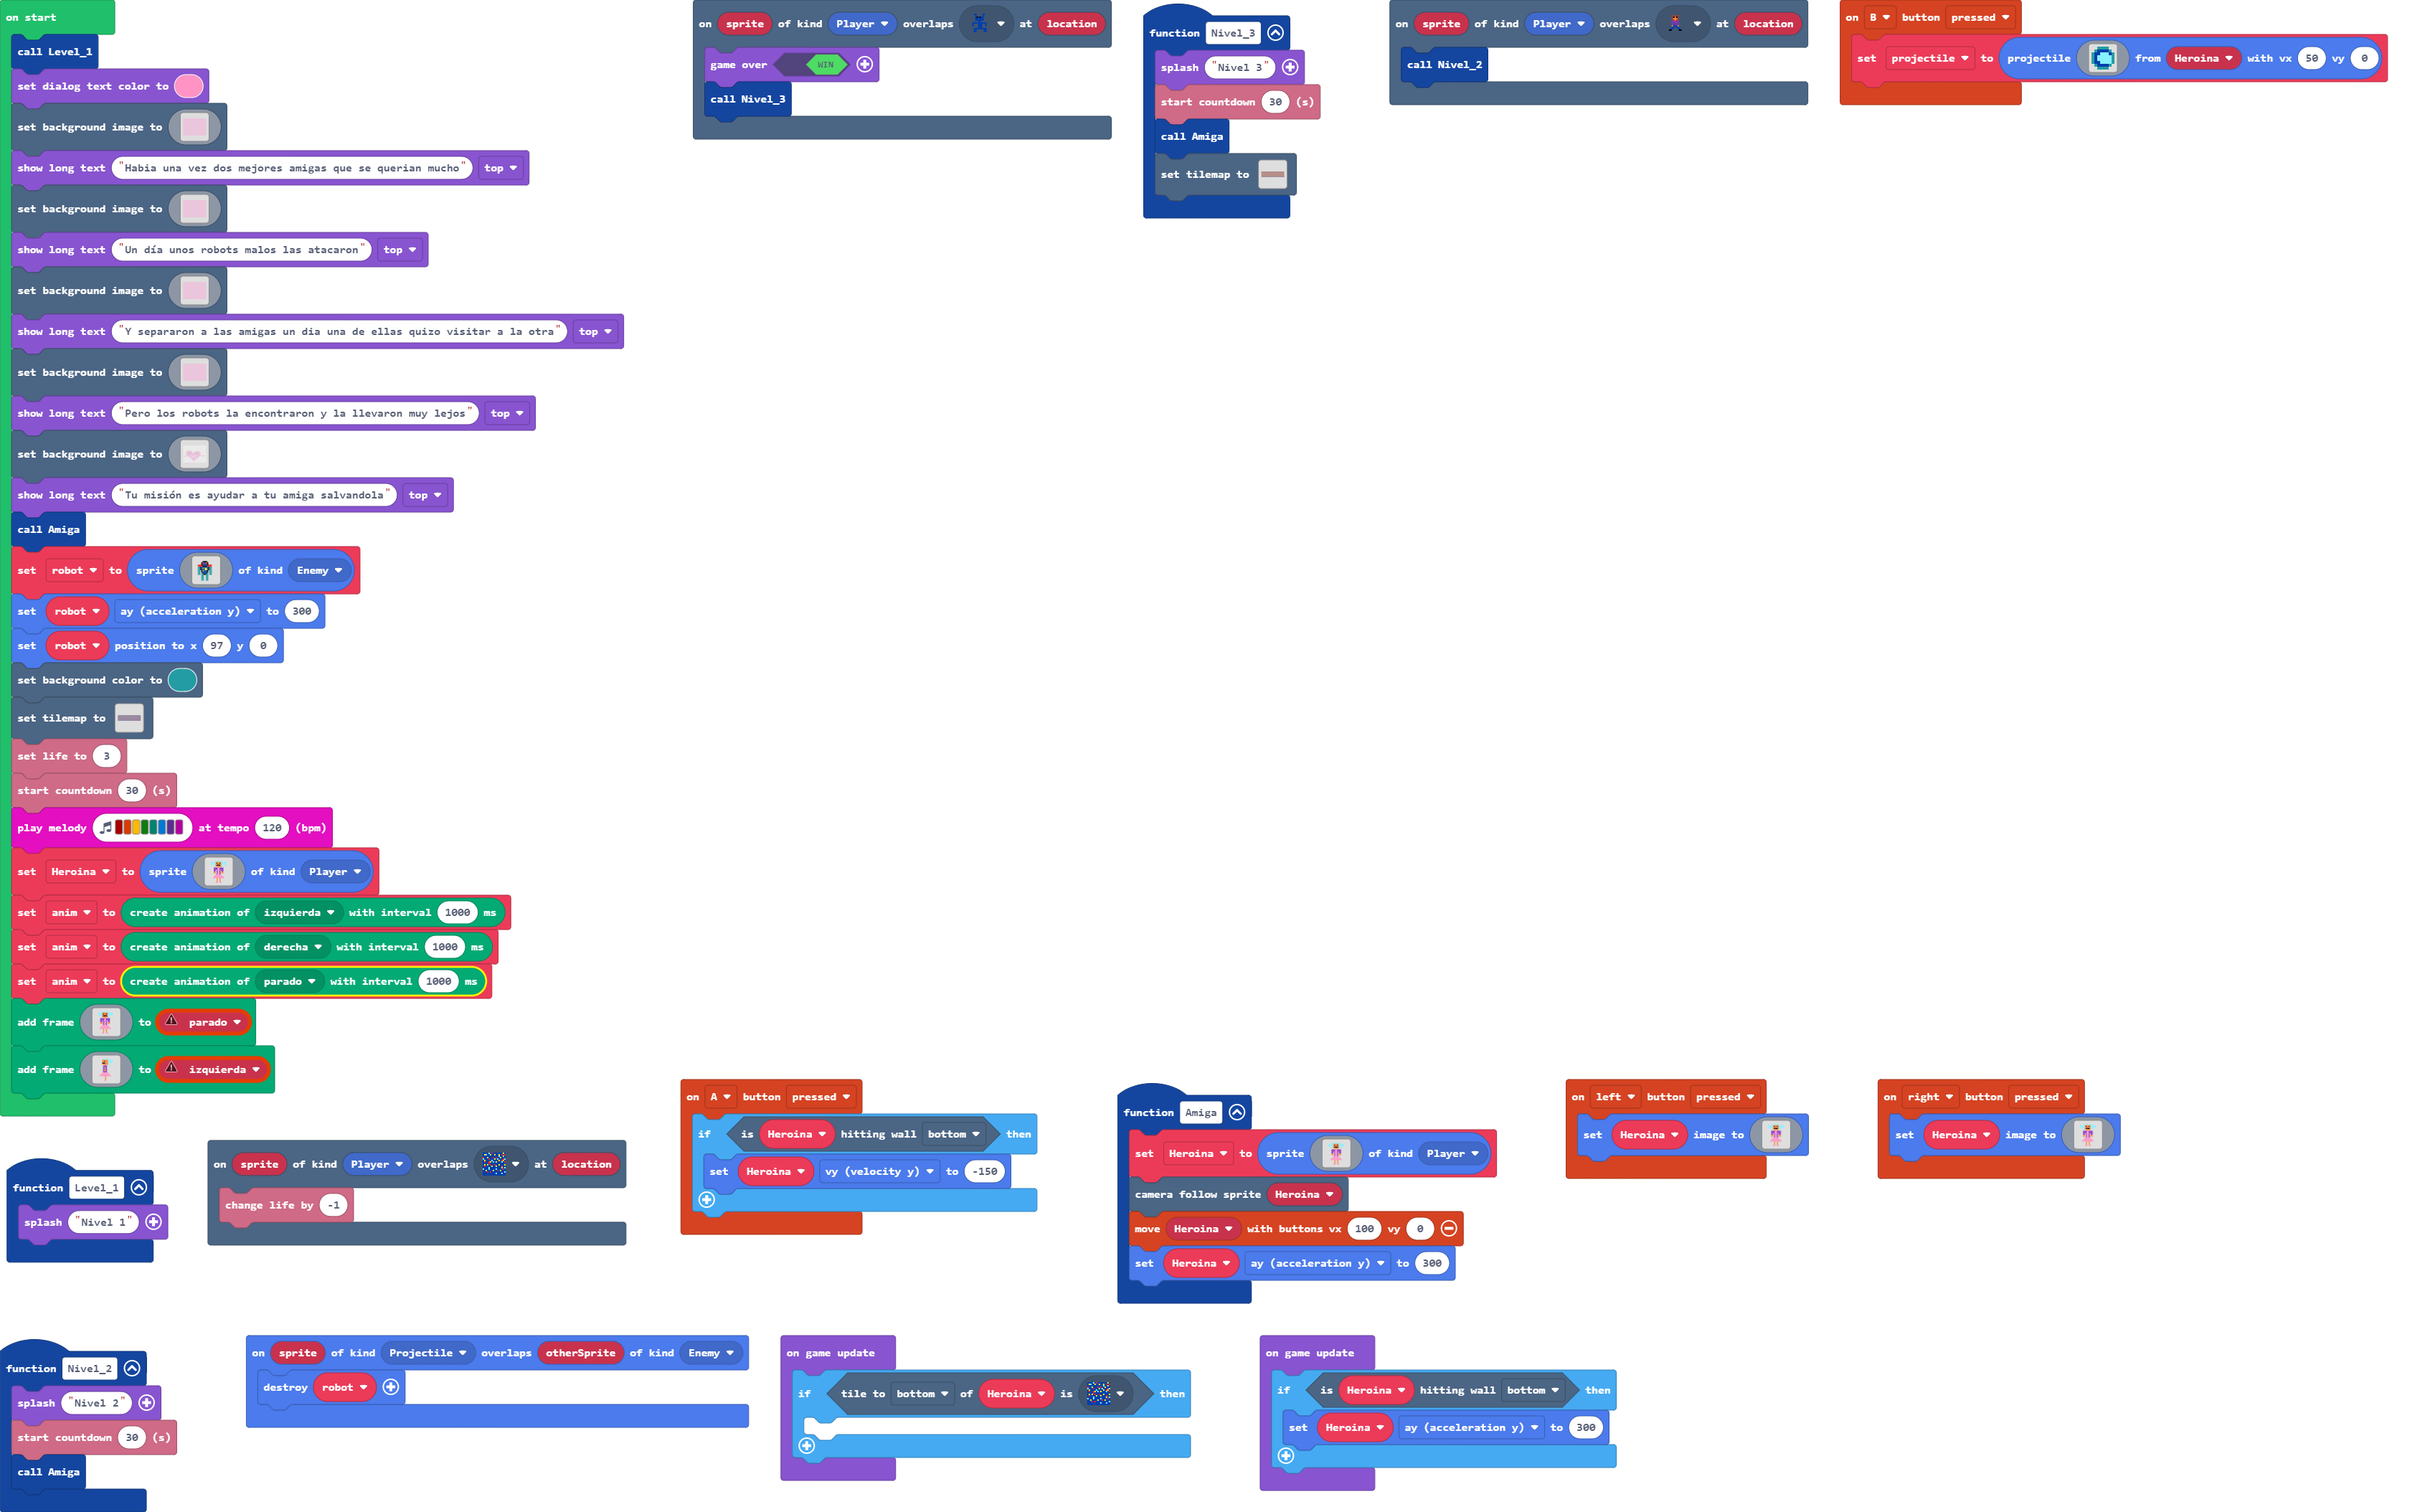
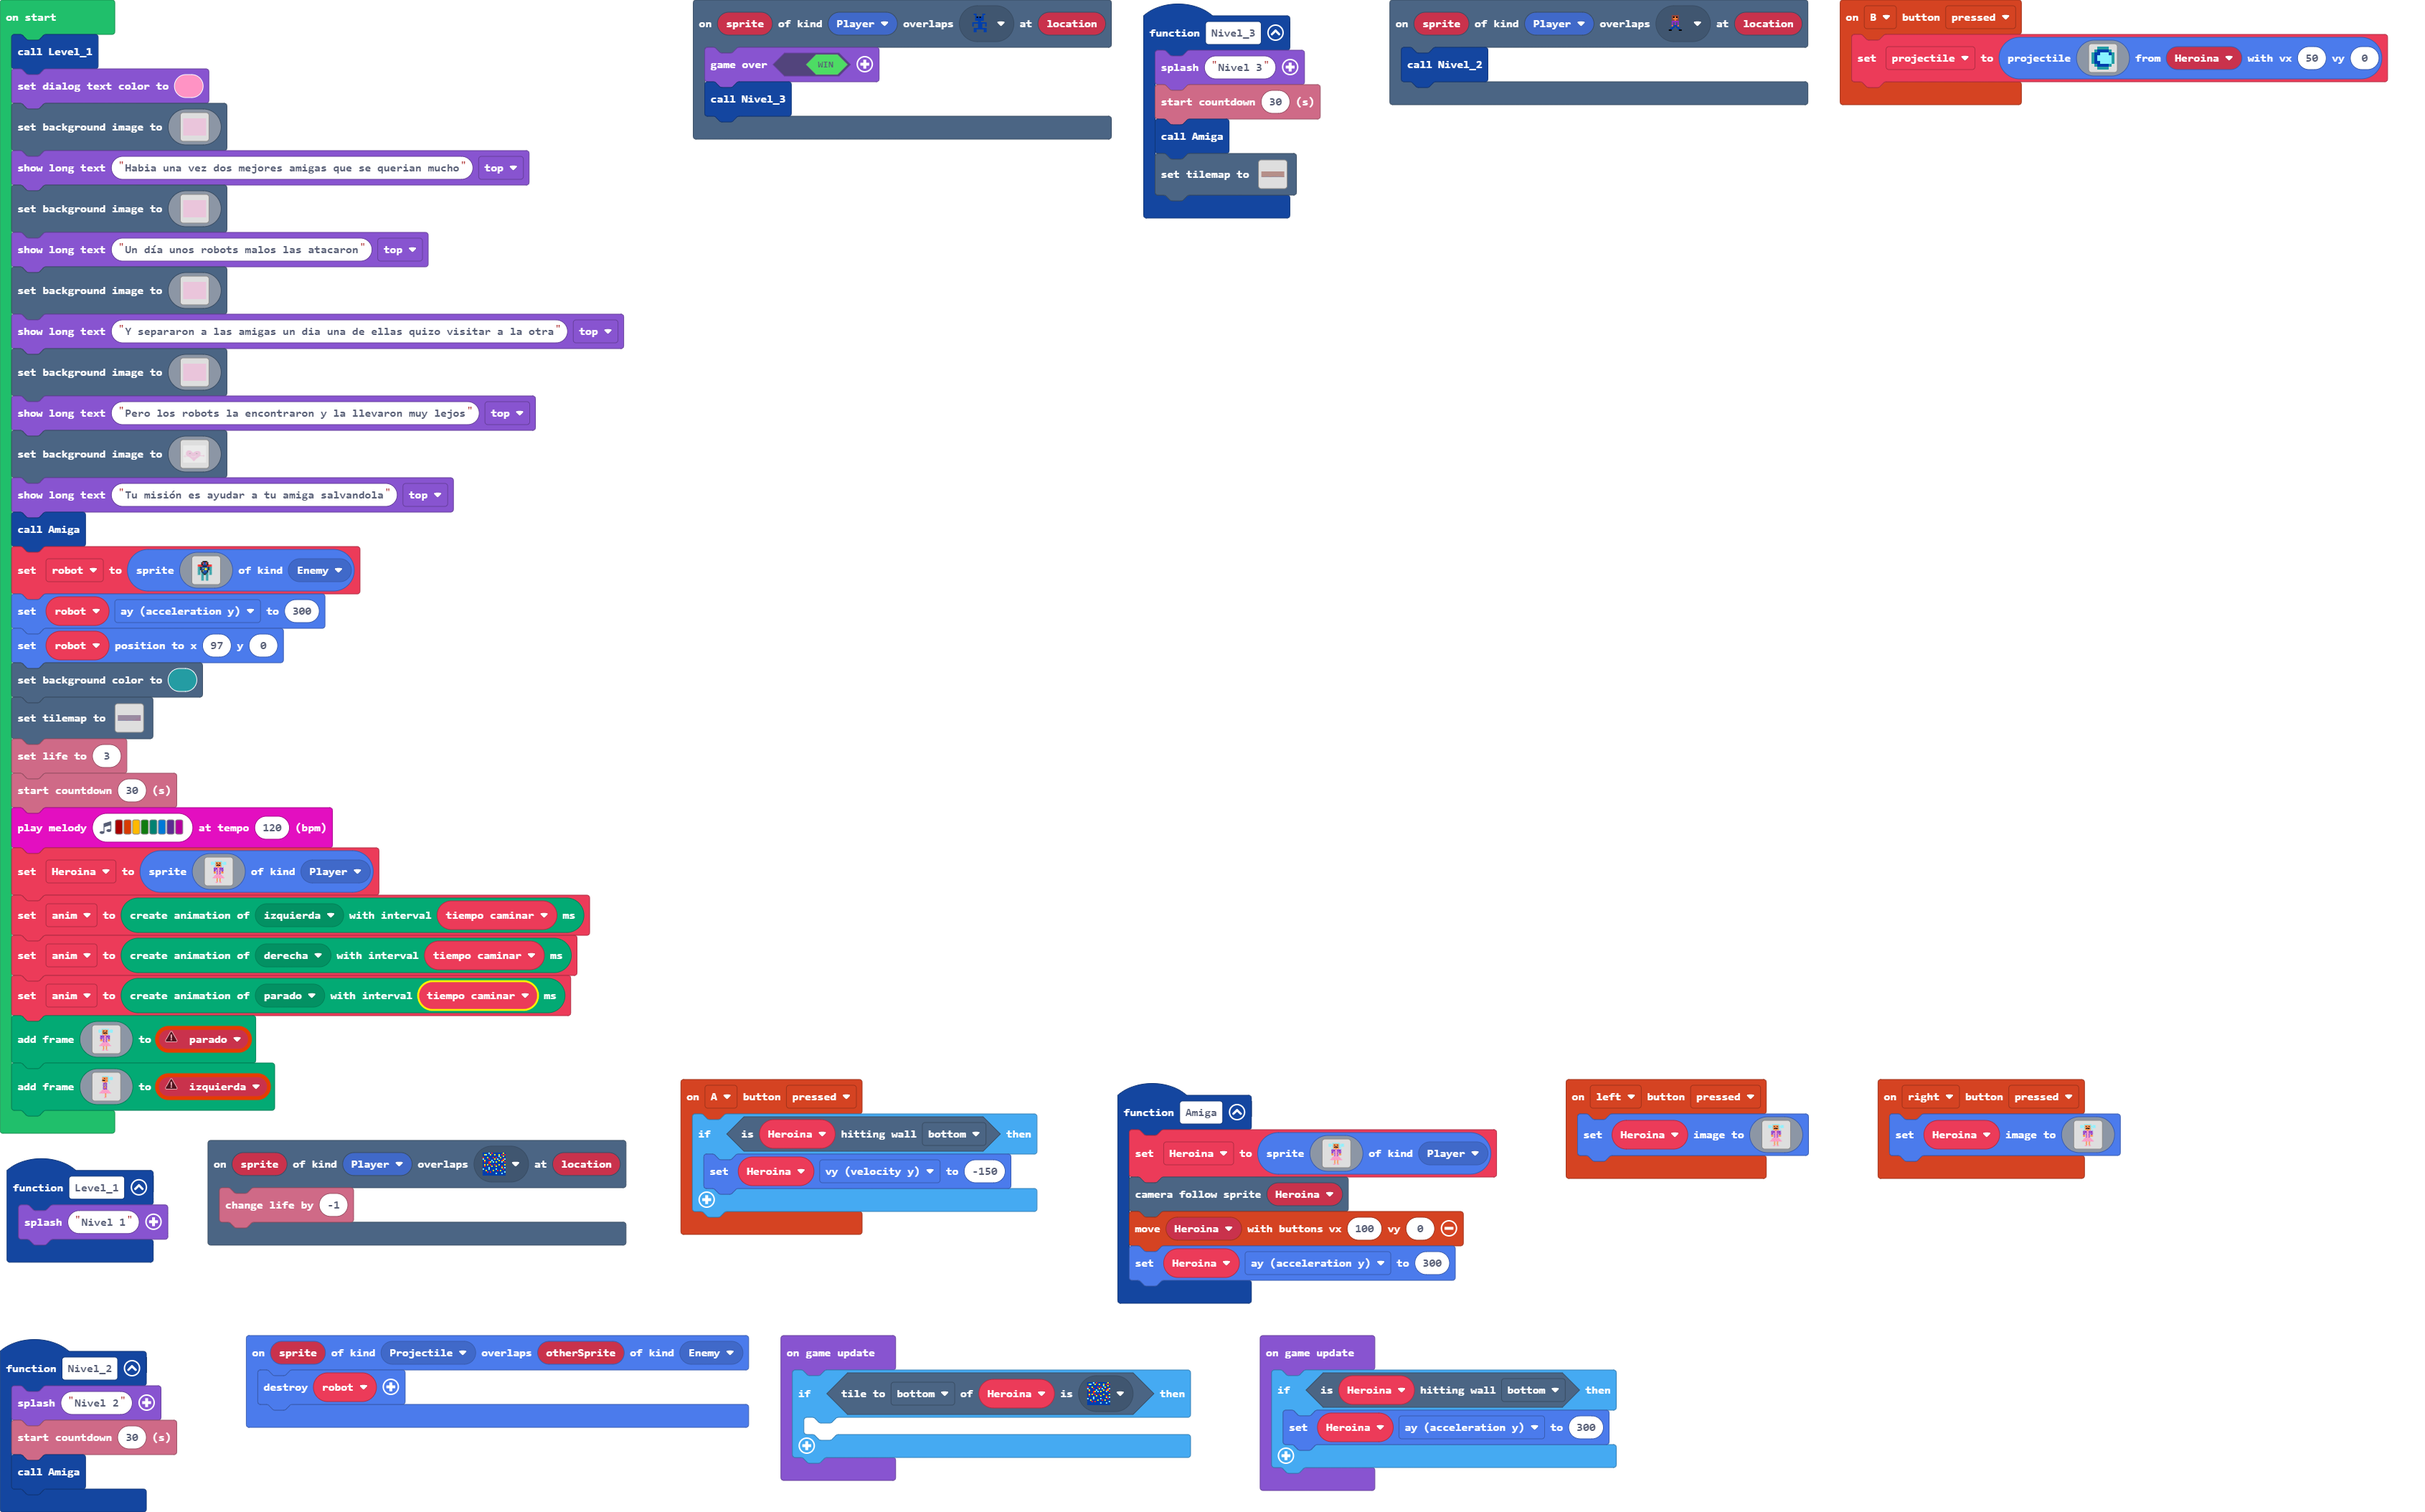
puse mas animacion

Changed region(s): [[0.0, 0.5859, 0.2484, 0.7709]]

diff --git a/main.ts b/main.ts
@@ -161,6 +161,7 @@ sprites.onOverlap(SpriteKind.Projectile, SpriteKind.Enemy, function (sprite, oth
 let projectile: Sprite = null
 let izquierda: animation.Animation = null
 let parado: animation.Animation = null
+let tiempo_caminar = 0
 let Heroina: Sprite = null
 let robot: Sprite = null
 Level_1()
@@ -853,9 +854,9 @@ Heroina = sprites.create(img`
     . . . . . . 4 . . 4 . . . . . . 
     . . . . . 3 3 . . 3 3 . . . . . 
     `, SpriteKind.Player)
-let anim = animation.createAnimation(ActionKind.izquierda, 1000)
-anim = animation.createAnimation(ActionKind.derecha, 1000)
-anim = animation.createAnimation(ActionKind.parado, 1000)
+let anim = animation.createAnimation(ActionKind.izquierda, tiempo_caminar)
+anim = animation.createAnimation(ActionKind.derecha, tiempo_caminar)
+anim = animation.createAnimation(ActionKind.parado, tiempo_caminar)
 parado.addAnimationFrame(img`
     . . . . . . . . . . . . . . . . 
     . . . 9 9 9 9 9 9 9 9 . . . . . 
